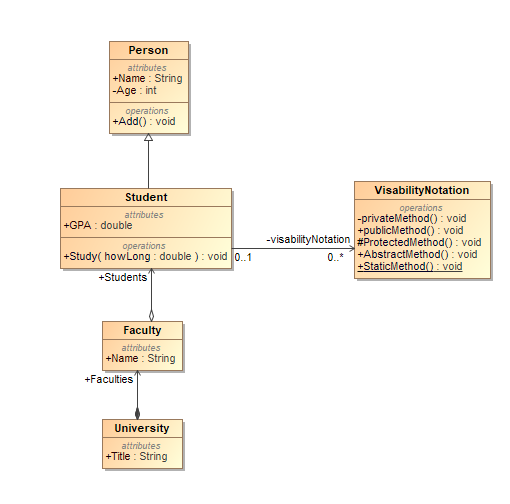
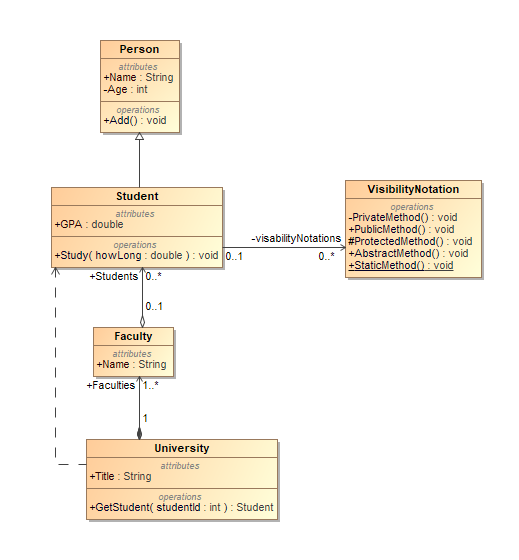
Finished associations namespace

Changed region(s): [[0.0882, 0.0595, 0.9706, 0.9524]]

diff --git a/Associations/Program.cs b/Associations/Program.cs
@@ -10,16 +10,53 @@ namespace Associations
 
 	public class Person
 	{
-		private string name;
-		private string lastName;
+		public string Name;
+		private int Age;
 
-		public void add() { }
+		public void Add() { }
 	}
 
-	public class Professor : Person
+	public class Student : Person
 	{
-		private string salary;
+		public double GPA;
+		private List<VisibilityNotation> visibilityNotations;
 
-		public void changeSalary() { }
+		public void Study(double howLong) { }
+
+		public Student()
+		{
+			this.visibilityNotations = new List<VisibilityNotation>();
+		}
+
+		public Student(List<VisibilityNotation> visibilityNotations)
+		{
+			this.visibilityNotations = visibilityNotations;
+		}
+	}
+
+	public class VisibilityNotation
+	{
+		public void PrivateMethod() { }
+		private void PublicMethod() { }
+		protected void ProtectedMethod() { }
+		//abstract void AbstractMethod();
+		public static void StaticMethod() { }
+	}
+
+	public class Faculty
+	{
+		public string Name;
+		public List<Student> Students;
+	}
+
+	public class University
+	{
+		public string Title;
+		public Faculty[] Faculties;
+
+		public Student GetStudent(int studentId)
+		{
+			return new Student();
+		}
 	}
 }
